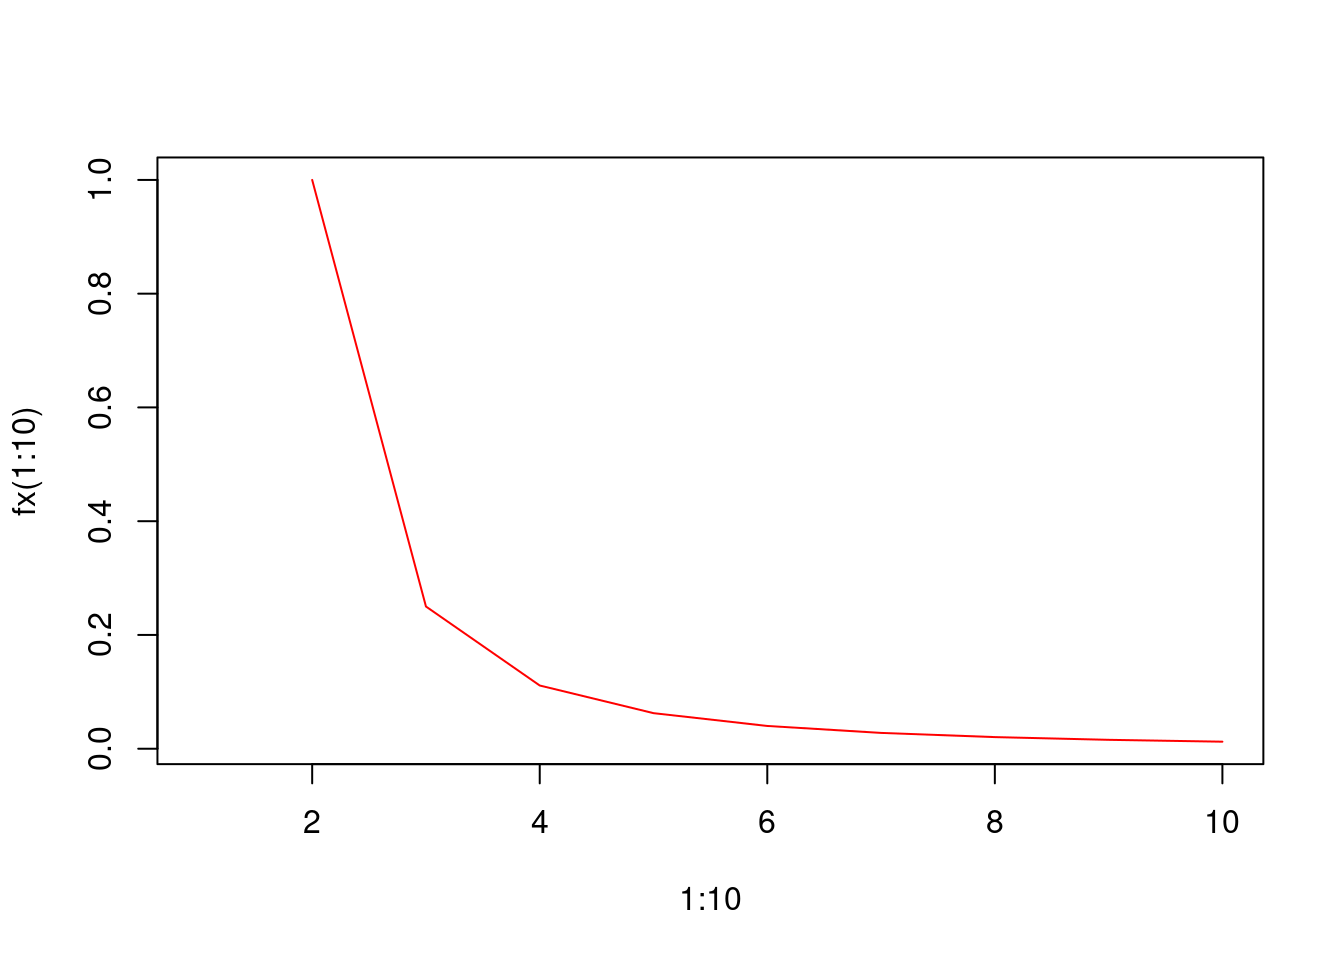
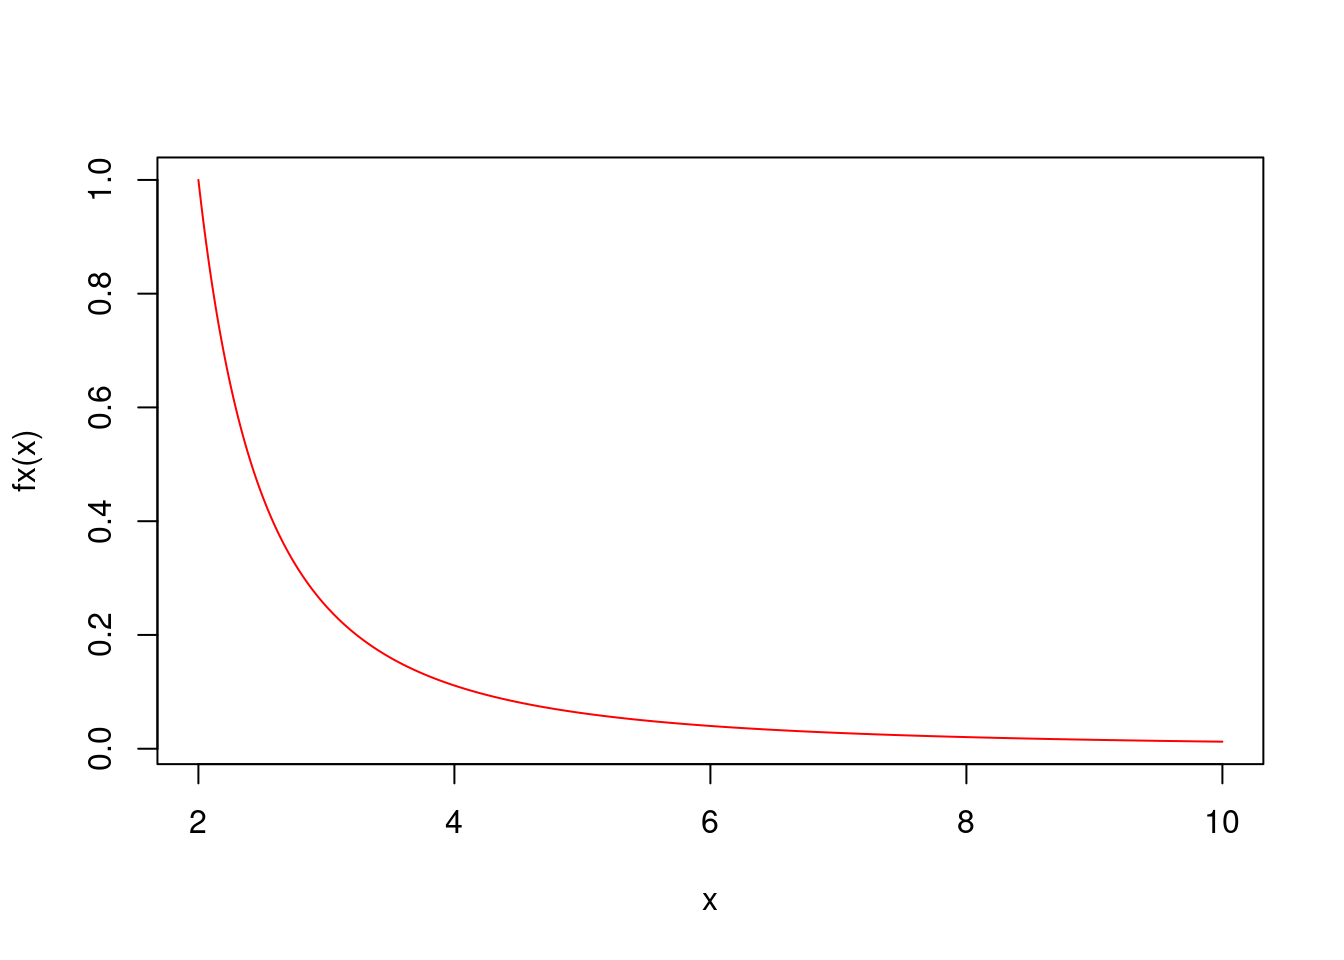
Configuracion inicial pagina web pye 20212 7

diff --git a/introduccionR.html b/introduccionR.html
@@ -595,7 +595,8 @@ y=rep(x, times=4)
 x</code></pre>
 <pre><code>## [1] &quot;rojo&quot;  &quot;verde&quot; &quot;azul&quot;</code></pre>
 <pre class="r"><code>y</code></pre>
-<pre><code>##  [1] &quot;rojo&quot;  &quot;verde&quot; &quot;azul&quot;  &quot;rojo&quot;  &quot;verde&quot; &quot;azul&quot;  &quot;rojo&quot;  &quot;verde&quot; &quot;azul&quot;  &quot;rojo&quot;  &quot;verde&quot; &quot;azul&quot;</code></pre>
+<pre><code>##  [1] &quot;rojo&quot;  &quot;verde&quot; &quot;azul&quot;  &quot;rojo&quot;  &quot;verde&quot; &quot;azul&quot;  &quot;rojo&quot;  &quot;verde&quot; &quot;azul&quot; 
+## [10] &quot;rojo&quot;  &quot;verde&quot; &quot;azul&quot;</code></pre>
 <p><br/><br/></p>
 </div>
 <div id="listas" class="section level2">
@@ -628,7 +629,8 @@ iris[1,5]</code></pre>
 fx(100) # funcion evaluada en x=100</code></pre>
 <pre><code>## [1] 0.0001020304</code></pre>
 <p>En este caso la función es evaluada dentro de un otra función en la construcción de un gráfico</p>
-<pre class="r"><code>plot(1:10, fx(1:10), type=&quot;l&quot;, col=&quot;red&quot;)</code></pre>
+<pre class="r"><code>x=seq(from=2,to=10, by=0.01)  # genera secuencia de numeros entre 2 y 10 con paso 0.01
+plot(x, fx(x), type=&quot;l&quot;, col=&quot;red&quot;) # genera grafica</code></pre>
 <p><img src="introduccionR_files/figure-html/unnamed-chunk-9-1.png" width="672" /></p>
 <p>El siguiente ejemplo construye una función para la realización de un gráfico. En este caso los valores de entrada estan conformados por un vector de datos y un color</p>
 <pre class="r"><code>y=sample(1:6,100, replace = T)  # generacion de datos
